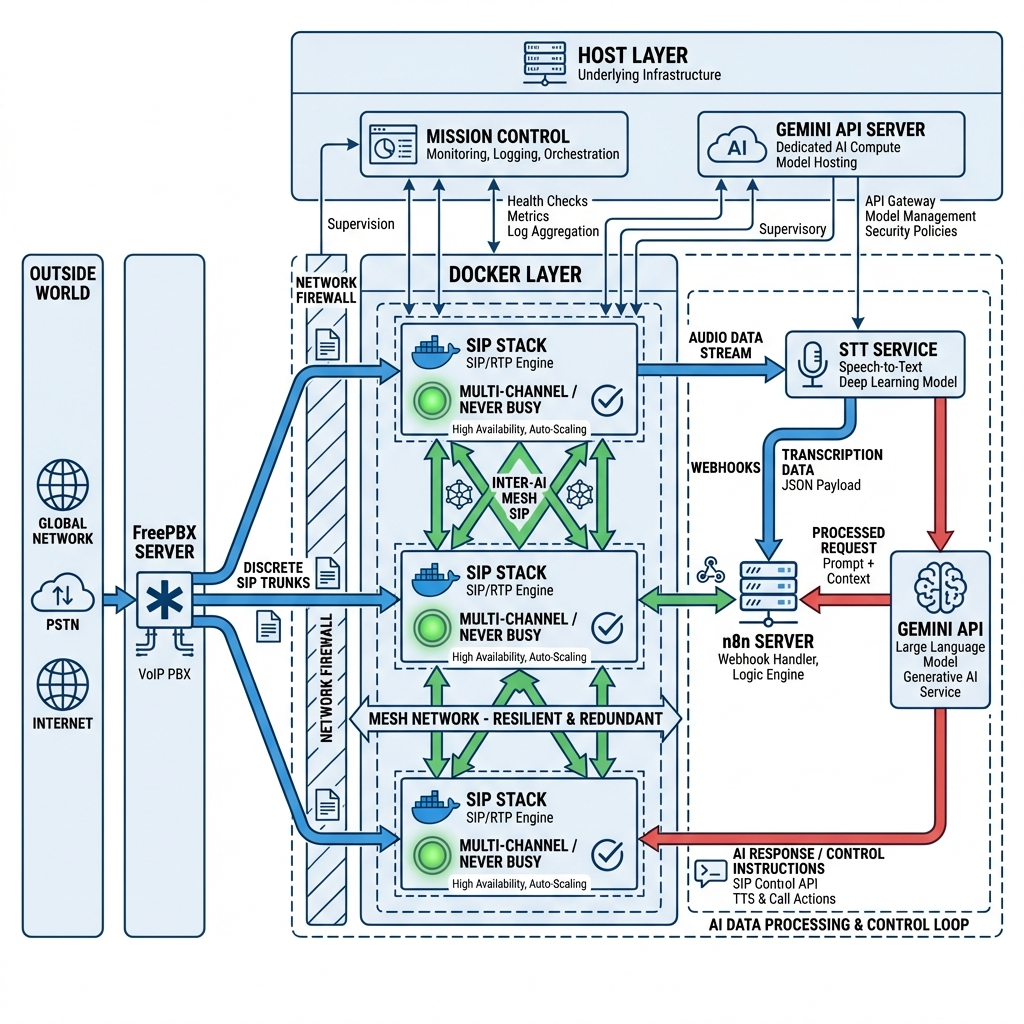
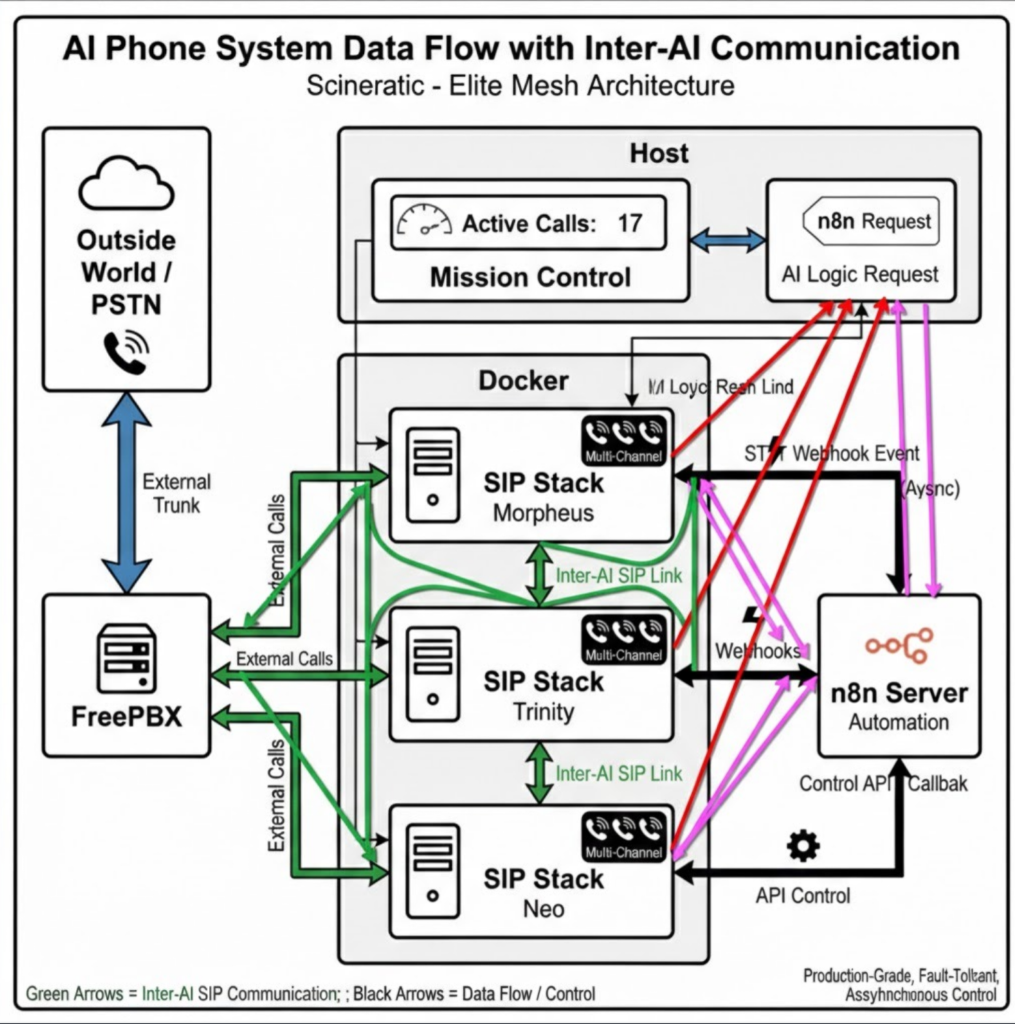
docs: update architecture diagram to PNG (Elite Mesh)

diff --git a/README.md b/README.md
@@ -61,7 +61,7 @@ Instead of just one AI bot, this system orchestrates **Teams of AIs**.
 
 ### Technical Architecture Diagram
 
-![System Architecture](docs/technical_architecture.jpg)
+![System Architecture](docs/technical_architecture.png)
 
 ```mermaid
 graph TD
